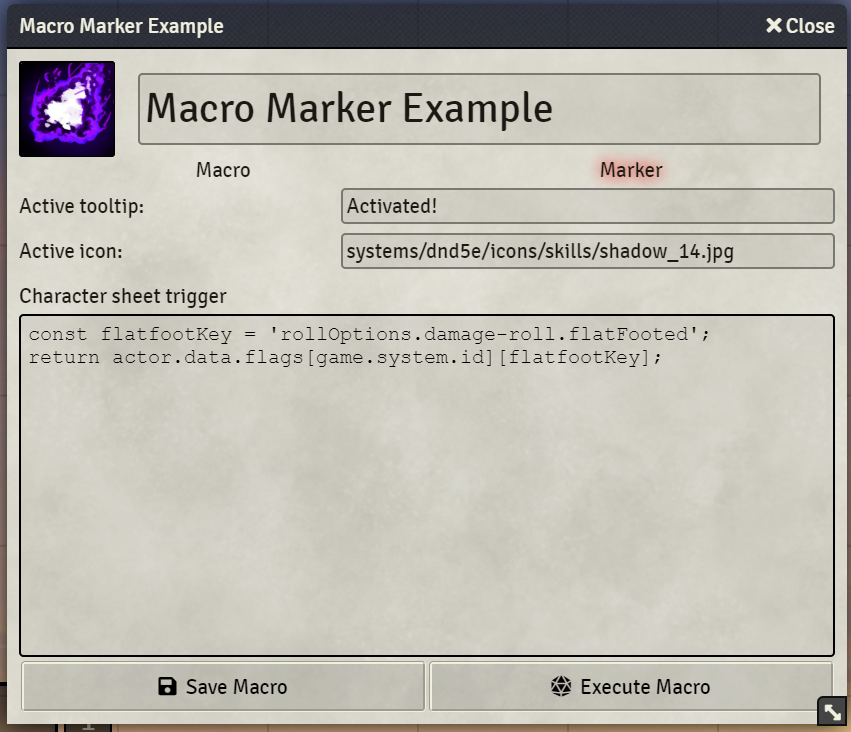
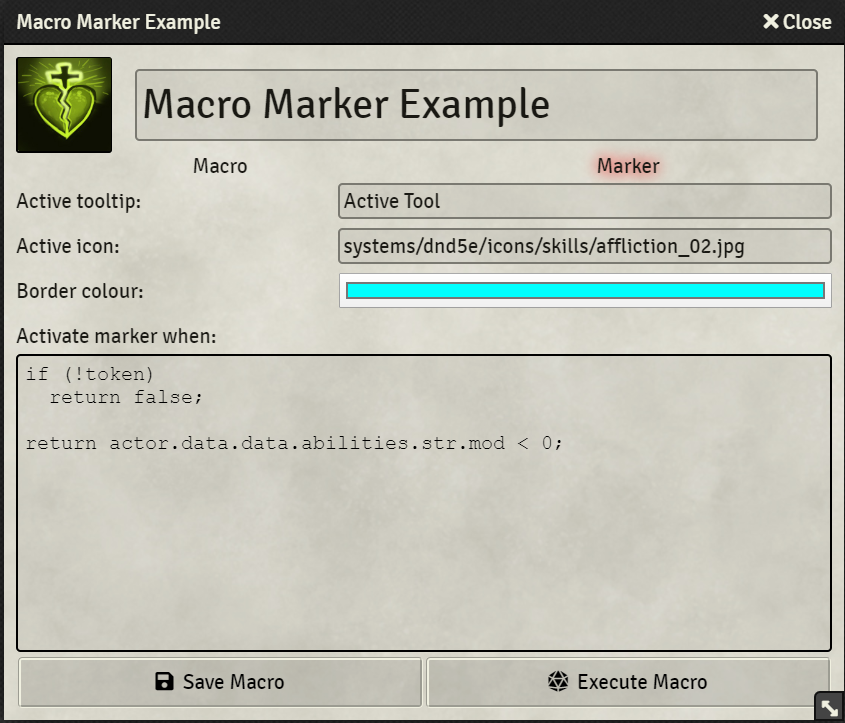
Updated README and patch notes

diff --git a/README.md b/README.md
@@ -16,7 +16,7 @@ Dimming the inactive macros is configurable in the module settings.
 
 ### Alternative icon and tooltip
 <p align="center">
-<img src="./img/mm-config.png" width="500px" />
+<img src="./img/mm-marker-config.png" width="500px" />
 </p>
 <p align="center">
 <img src="./img/mm-tooltip.gif" width="500px" />
@@ -30,6 +30,30 @@ Dimming the inactive macros is configurable in the module settings.
 </p>
 
 ## Usage
+The primary way to use this module, is to set a condition or trigger when the marker is activated. This is done in the macro configuration. This dialog now has an extra tab named "_marker_".
+
+### Trigger-based toggles
+
+The script will execute on any change to the character sheet, when the hotbar renders (e.g. on page changes) and when you select a token.
+
+When the script returns `true`, the marker will be activated. When it returns `false`, it will be deactivated.
+
+Like in the actual macro, you can use the `this` (current macro), `token` (selected token), `actor` (actor of selected token) and `character` (the user's character) variables.
+
+Example:
+The following trigger activates the marker when
+a) a token is selected; and
+b) the strength modifier is less than 0.
+```js
+if (!token)
+  return false;
+
+return actor.data.data.abilities.str.mod < 0;
+```
+
+If using a trigger like the one above is not an option, you can use flags instead.
+
+### Flag-based toggles
 You can toggle the state on one of three entities:
 
 1. Macro
@@ -48,7 +72,7 @@ Toggling the state on the token will make it visible for whoever controls the to
 
 ```js
 let token = canvas.tokens.controlled[0];
-MacroMarker.toggle(macro, { token: token });
+MacroMarker.toggle(macro, { entity: token });
 ```
 
 ### User
@@ -56,35 +80,29 @@ Toggling the state on the user will make it visible for only that user irregardl
 
 ```js
 let user = game.user;
-MacroMarker.toggle(macro, { user: user });
+MacroMarker.toggle(macro, { entity: user });
 ```
 
-### Manual toggles
+## Manual toggles
 Alternatively, you can manually activate and deactivate it, using the same function signature as the `toggle`  function.
+
 
 ```js
 MacroMarker.activate(macro);
 MacroMarker.deactivate(macro);
 
-MacroMarker.activate(macro, { user: user });
-MacroMarker.deactivate(macro, { token: token });
+MacroMarker.activate(macro, { entity: user });
+MacroMarker.deactivate(macro, { entity: token });
 ```
 
-### Using a custom colour
-You can supply an alternative colour, by passing it in the data object of any of the above mentioned methods.
-You can use any colour that is valid in [CSS](https://www.w3schools.com/cssref/css_colors_legal.asp).
-
-```js
-MacroMarker.toggle(macro, { token: token, colour: 'gold' });
-MacroMarker.activate(macro, { user: user, colour: 'gold' });
-MacroMarker.deactivate(macro, { colour: 'gold' });
-```
-
-### Checking the state
+## Checking the state
 Finally, you can also check the state:
 
 ```js
 MacroMarker.isActive(macro);
-MacroMarker.isActive(macro, { token: token });
-MacroMarker.isActive(macro, { user: user });
+MacroMarker.isActive(macro, { entity: token });
+MacroMarker.isActive(macro, { entity: user });
 ```
+
+## Marker configuration
+You can configure an alternative tooltip, icon and colour when editing the macro.

diff --git a/PATCH_NOTES.md b/PATCH_NOTES.md
@@ -1,2 +1,40 @@
+**Deprecations:**
+Macro Hotbar will now show a warning when the following functions are used:
+
+- MacroMarker.toggleMacro
+- MacroMarker.toggleUserMacro
+- MacroMarker.toggleTokenMacro
+
+- MacroMarker.toggle(macro, { token })
+- MacroMarker.toggle(macro, { user })
+- MacroMarker.activate(macro, { token })
+- MacroMarker.deactivate(macro, { user })
+
+instead the following function (signatures) should be used:
+
+- MacroMarker.toggle(macro, { entity })
+- MacroMarker.activate(macro, { entity })
+- MacroMarker.deactivate(macro, { entity })
+
+**Breaking changes:**
+The following functionality has been changed immediately.
+- Marker colour is no longer part of the individual markers, but instead part of the macro configuration and stored in 'macro-marker.activeData'
+
+Despite being part of the inner workings, the following features are listed here just in case you do depend on them.
+However, I strongly discourage using them, because they might change again in a next stable version.
+
+- Markers are no longer stored in the user, token or actor flags. Instead they are stored in the macro under 'macro-marker.markers'.
+- Because markers are now stored only on the macro. The flag has the following structure:
+```js
+{
+    type: 'Token'|'Actor'|'User'|'Macro',
+    [entityId]: boolean | undefined
+}
+```
+
+**New features:**
+- Add condition-based toggling. This condition is checked on sheet updates, selecting tokens and when the hotbar renders.
 - Move active tooltip and active icon to separate tab
-- Add character sheet trigger for linked tokens
+
+**Fixed bugs:**
+- Marker does not show when both players are looking at the same marker when it is (de)activated.
